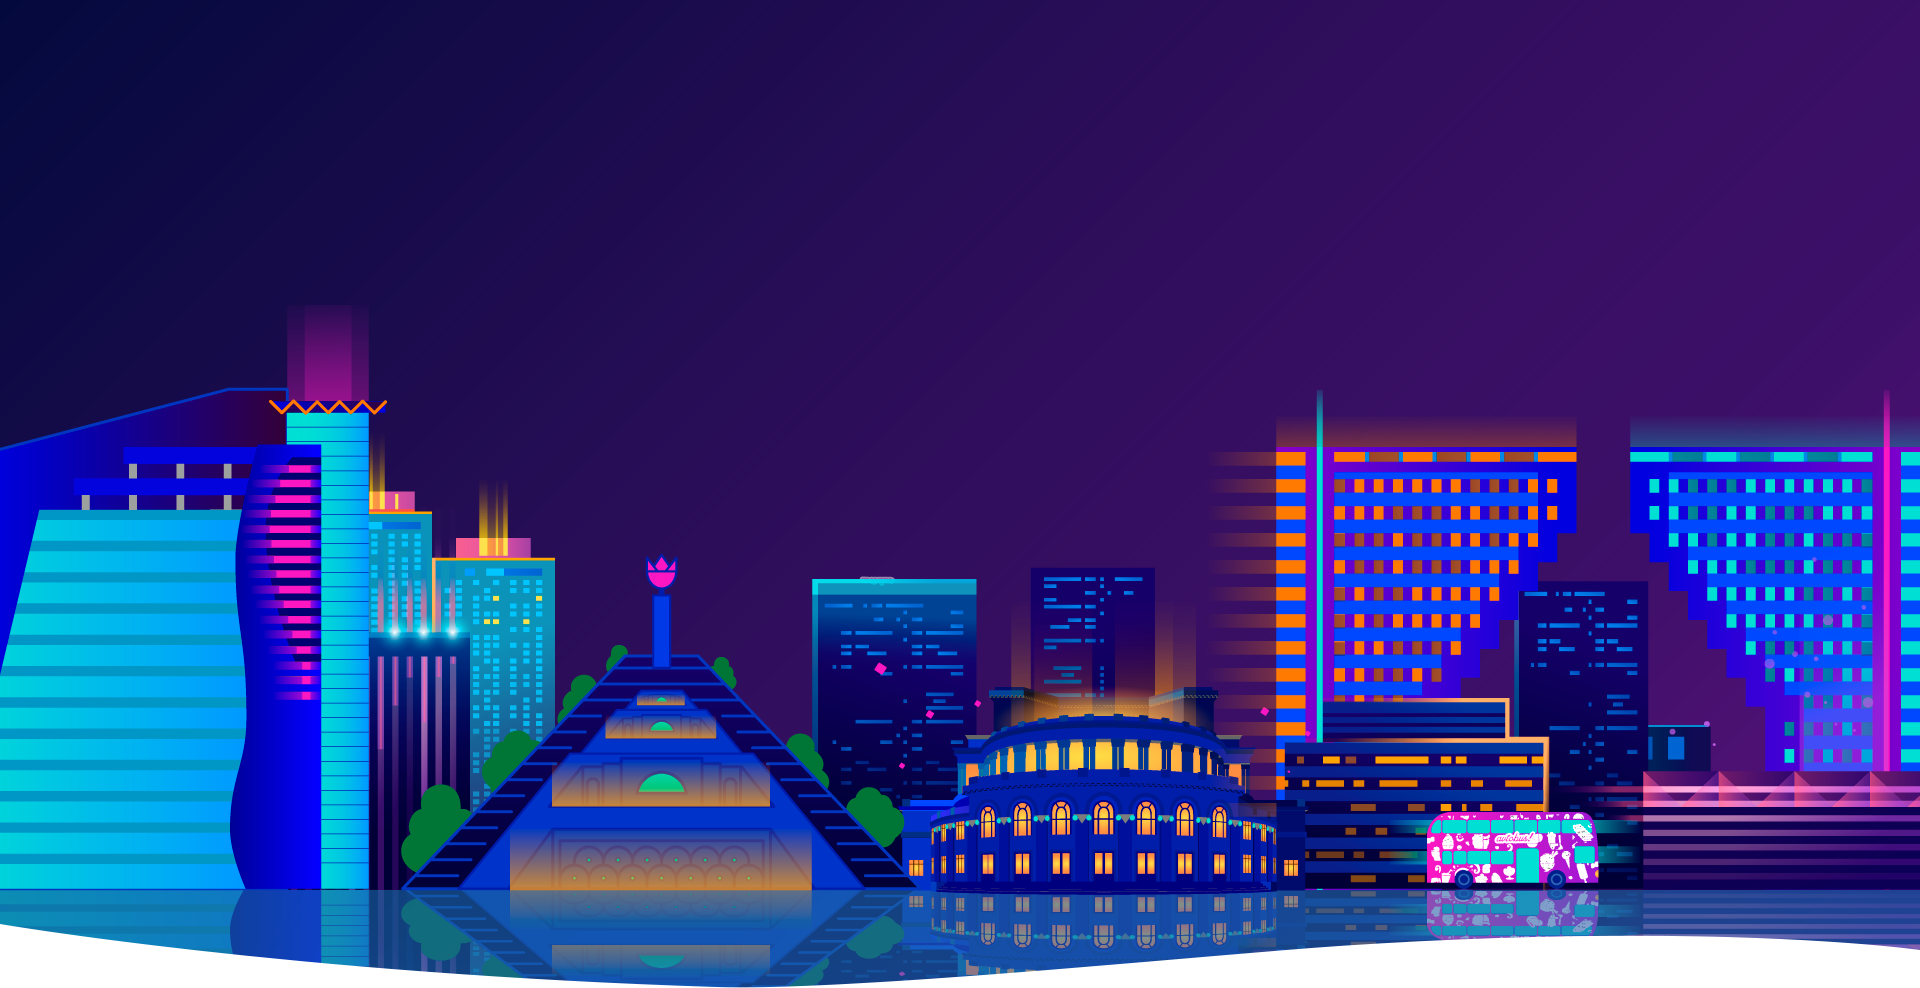
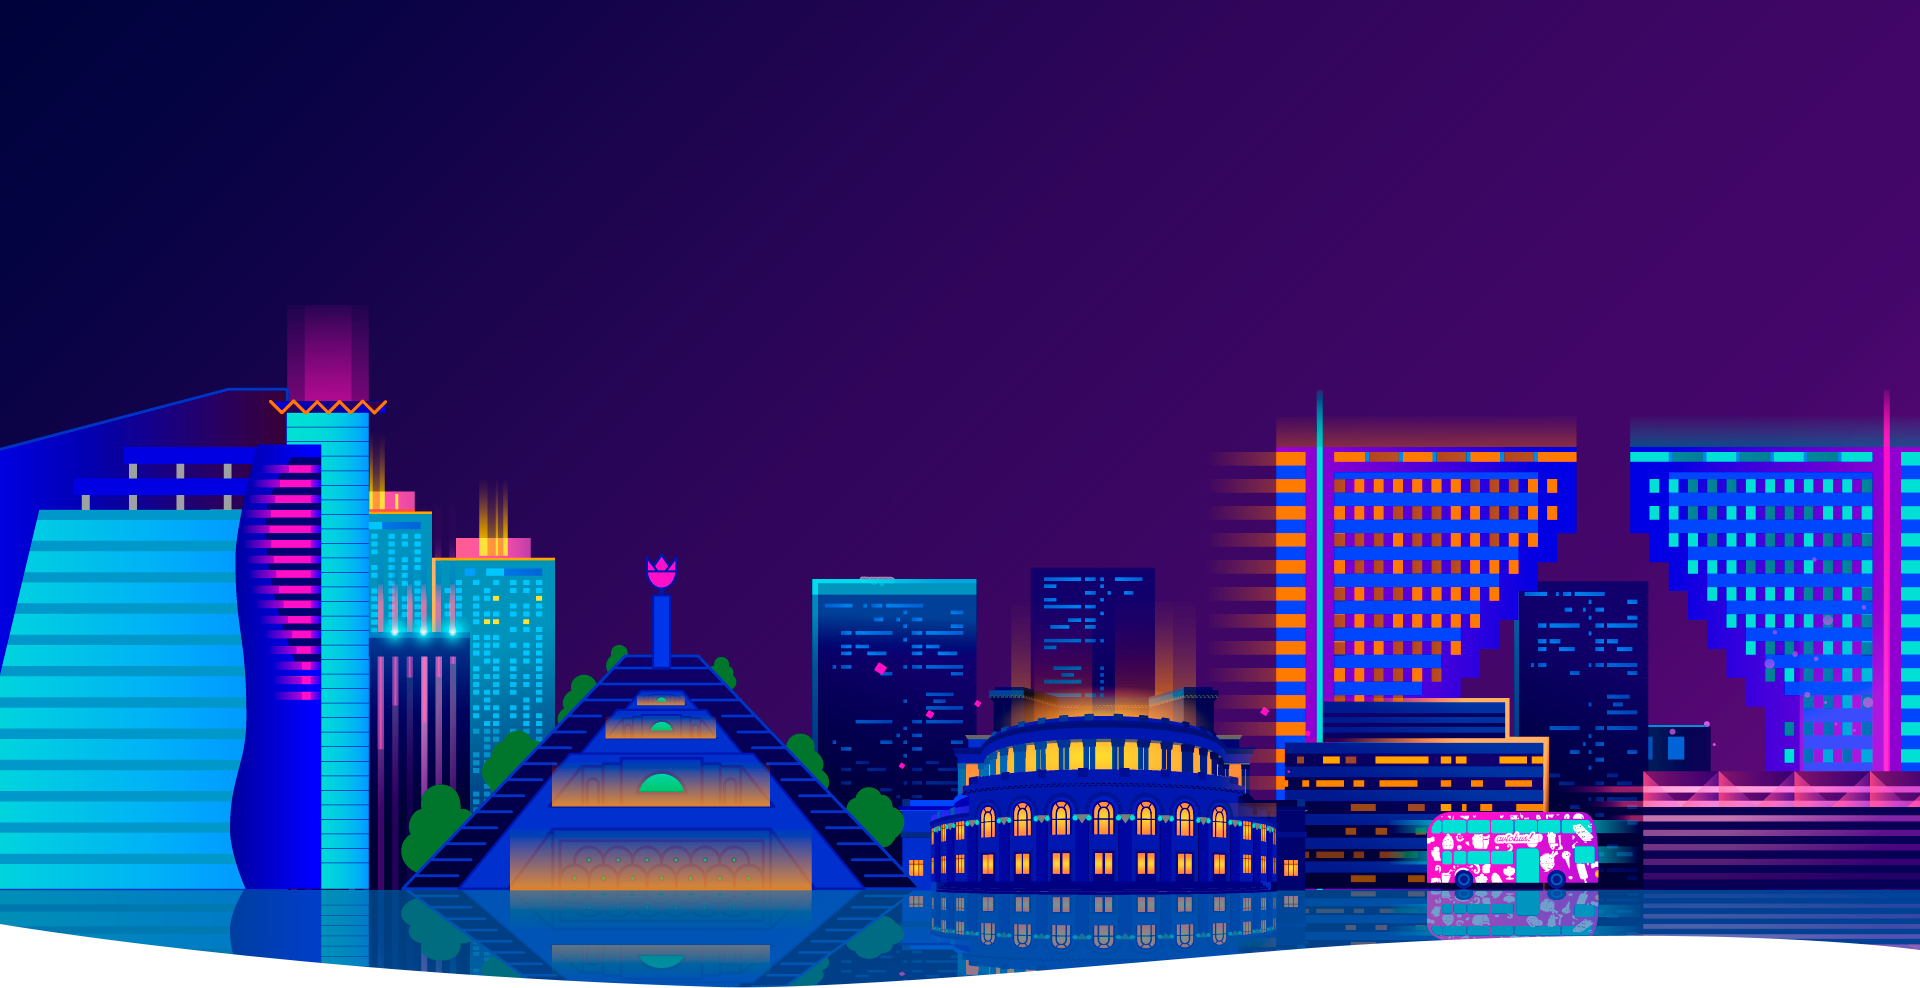
Reduce Images Size

diff --git a/src/About/About.js b/src/About/About.js
@@ -24,7 +24,7 @@ const About = () => (
     <div className="image-container">
       <img className="triangle icon" src="./about-section-triangle.png" alt="triangle" />
       <img className="spark icon" src="./about-section-spark.png" alt="spark" />
-      <img className="main" src="./about-section-image.png" alt="about section" />
+      <img className="main" src="./about-section-image.jpg" alt="about section" />
     </div>
   </div>
 );
